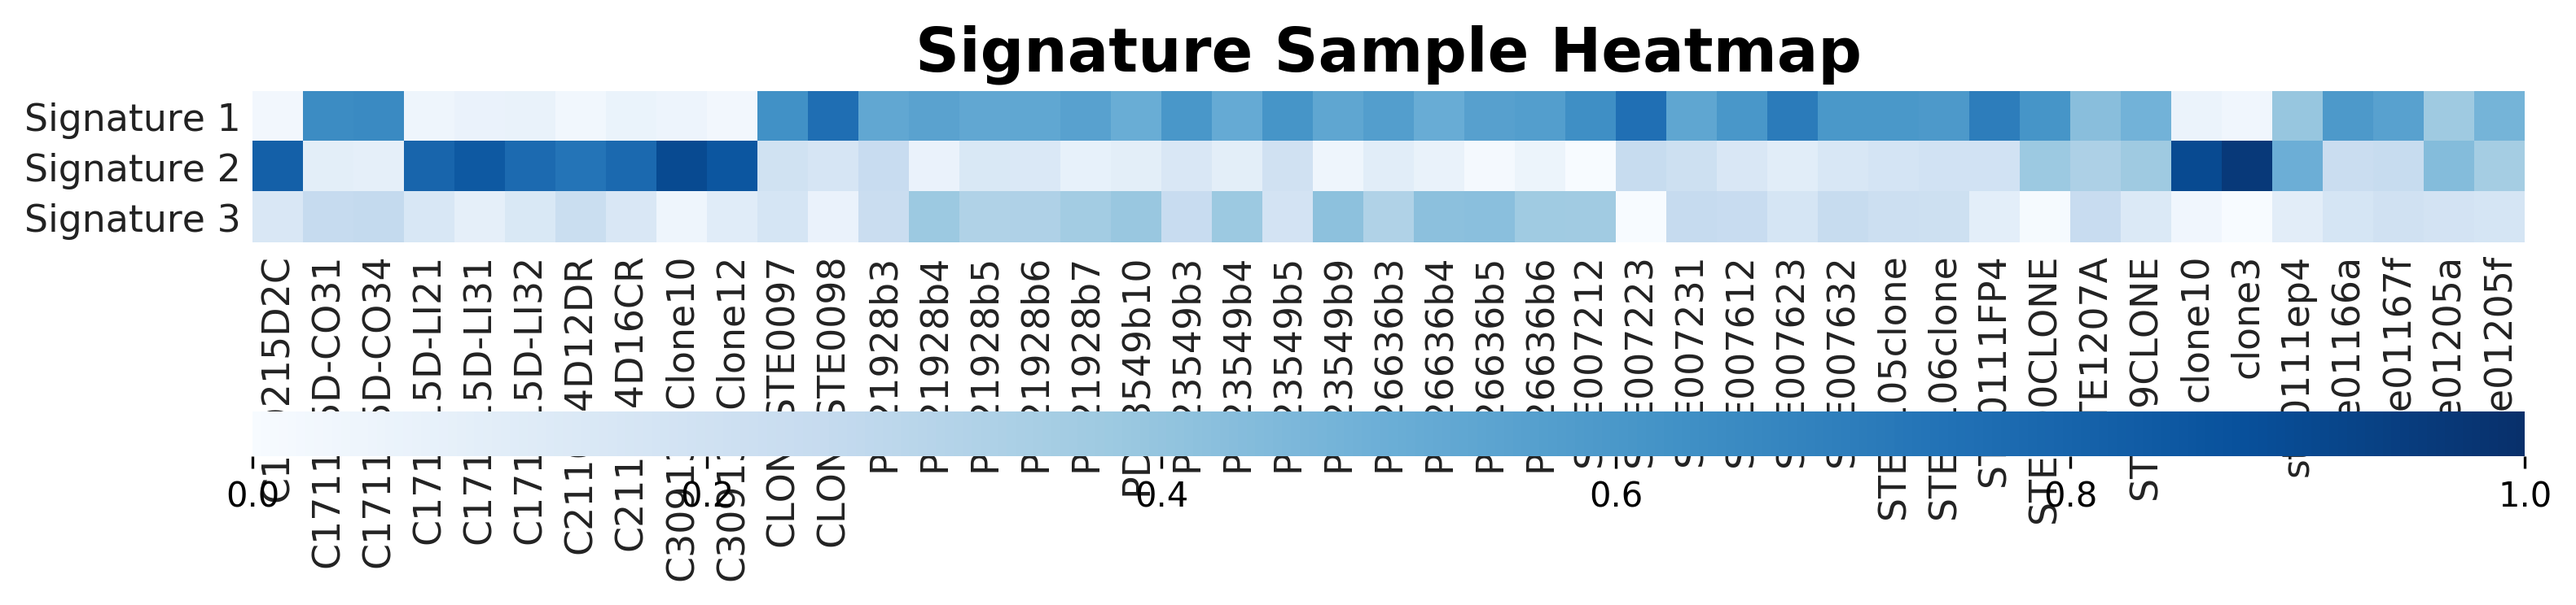
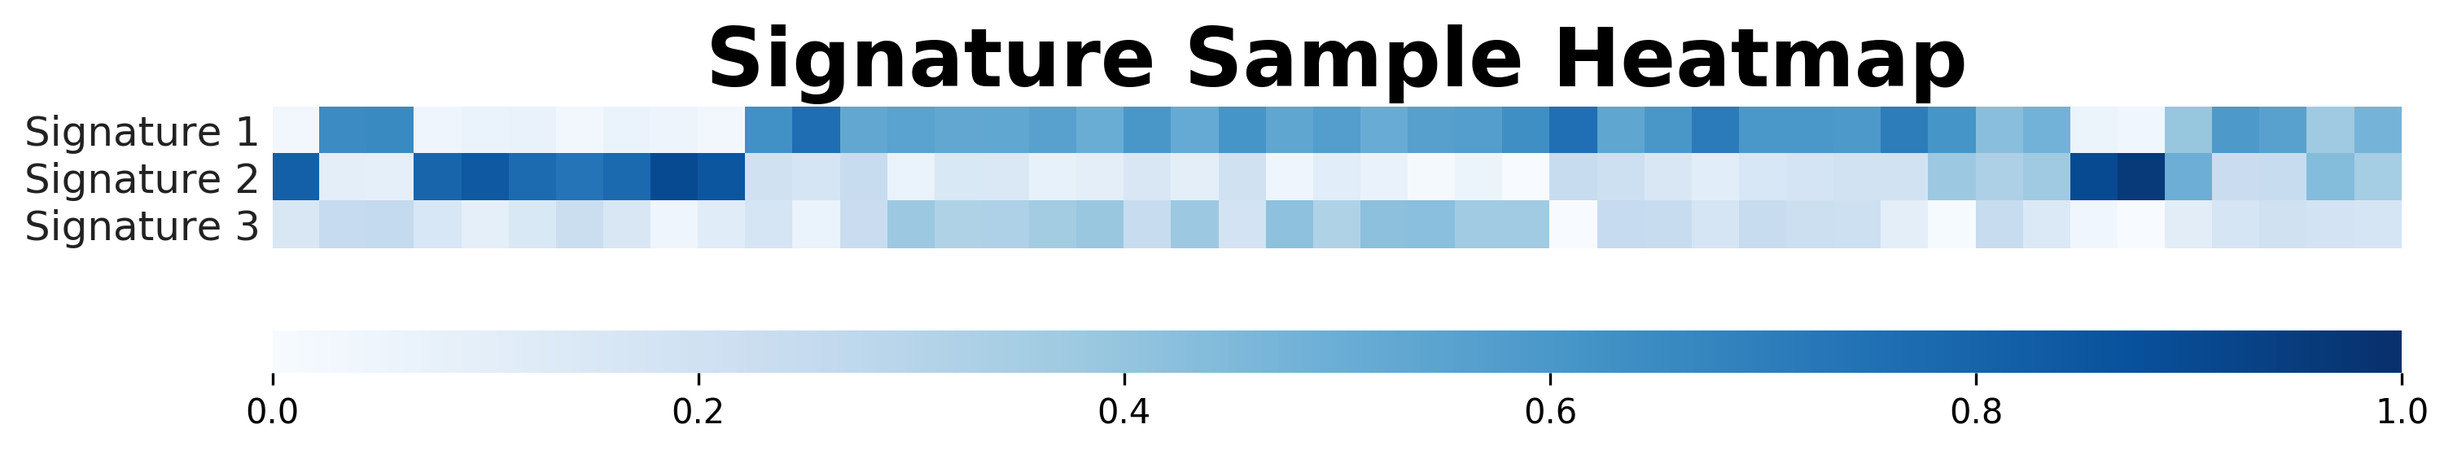
20201210

diff --git a/src/maf_analysis.py b/src/maf_analysis.py
@@ -499,8 +499,6 @@ class MutationalSignature:
             ax.tick_params(axis='y',direction='in', color='#cac9c9', labelsize=16)
             ax.tick_params(axis='x',direction='in', length=0)
             ax.xaxis.set_visible(False)
-
-            # plt.xticks(ind, sample_list,rotation=45,horizontalalignment='right',fontweight='light',fontsize=10)
             ax.set_yticks(np.arange(0, 1+0.1, 0.25))
             ax.legend(title="Signature",labels=sig_list,loc='center right', fontsize=12, edgecolor='white',title_fontsize=14, labelspacing=1, bbox_to_anchor=(1.17, 0.5))
             plt.savefig(pic+"SigContribution.png", dpi=300,bbox_inches='tight')
@@ -508,14 +506,14 @@ class MutationalSignature:
             
             height, length = len(sig_list), len(sample_list)  
             h_data = np.array(df.to_numpy())
-            f,ax = plt.subplots(figsize=(12,6))
-            ax = sns.heatmap(data, vmin=0, vmax=1, xticklabels =sample_list, yticklabels = sig_list, 
+            f,ax = plt.subplots(figsize=(9+length/20,2+height*0.3))
+            ax = sns.heatmap(data, vmin=0, vmax=1, yticklabels = sig_list, 
                              square=True, cmap="Blues",cbar_kws={"orientation": "horizontal",'shrink':1, 'aspect':50})
-            ax.set_title('Signature Sample Heatmap', fontsize=18,weight='bold')
-            ax.set_xticklabels(ax.get_xticklabels(),rotation=90, horizontalalignment='center', fontsize=11, color='#222222')
+            ax.set_title('Signature Sample Heatmap', fontsize=24,weight='bold')
+            ax.xaxis.set_visible(False)
+            ax.set_xticklabels([])
             ax.tick_params(axis='both',length=0)
-            ax.set_yticklabels(ax.get_yticklabels(), fontsize=11,color='#222222')
-            # ax.set_xticklabels(ax.get_xticklabels(), rotation=45, horizontalalignment='right',fontweight='light',fontsize=10)
+            ax.set_yticklabels(ax.get_yticklabels(), fontsize=12,color='#222222')
             plt.savefig(pic+"SigSamHeatmap.png",dpi=300,bbox_inches='tight')
             print(colored(("=> Generate Heatmap: "+pic+"SigSamHeatmap.png"), 'green'))
         def DonutPlot():
@@ -525,19 +523,20 @@ class MutationalSignature:
             SUM = raw_data.sum(axis=0)
             raw_data = raw_data/SUM
             names, sizes = list(raw_data.index), list(raw_data.iloc[:])
-            fig, ax = plt.subplots(figsize=(6, 3), subplot_kw=dict(aspect="equal"))
-            wedges, texts, autotexts = ax.pie(sizes, colors=COLOR_MAP[:len(names)], autopct='%1.1f%%',textprops={'fontsize': 6},radius=1.2, pctdistance=1.15)
-            leg = ax.legend(wedges, list(df.index),title_fontsize=8,fontsize=6,title='Signature',loc="center left",bbox_to_anchor=(1.05,0.5))
+            fig, ax = plt.subplots(figsize=(4, 2), subplot_kw=dict(aspect="equal"))
+            wedges, texts, autotexts = ax.pie(sizes, colors=COLOR_MAP[:len(names)], autopct='%1.1f%%',textprops={'fontsize': 7},radius=1.2, pctdistance=1.3)
+            space = 0.021
+            leg = ax.legend(wedges, list(df.index),title_fontsize=8,fontsize=6,title='Signature',loc="center left",bbox_to_anchor=(1.05+space*(len(sizes)),0.5), edgecolor='white')
             p = plt.gcf()
-            my_circle = plt.Circle( (0,0), 0.72, color='white')
+            my_circle = plt.Circle( (0,0), 0.6, color='white')
             p.gca().add_artist(my_circle)
-            p.savefig(pic+"Donut_plot.png", dpi=300,bbox_inches='tight')
+            p.savefig(pic+"Donut_plot.png", dpi=300, bbox_inches='tight')
             print(colored(("=> Generate Donut Plot: "+pic+"Donut_plot.png"), 'green'))
-        # nmf()
-        # SBSPlot()
-        # CosineSimilarity()
+        nmf()
+        SBSPlot()
+        CosineSimilarity()
         SigDistribution()
-        # DonutPlot()
+        DonutPlot()
 
 
 # 5. Mutation burden statistics
